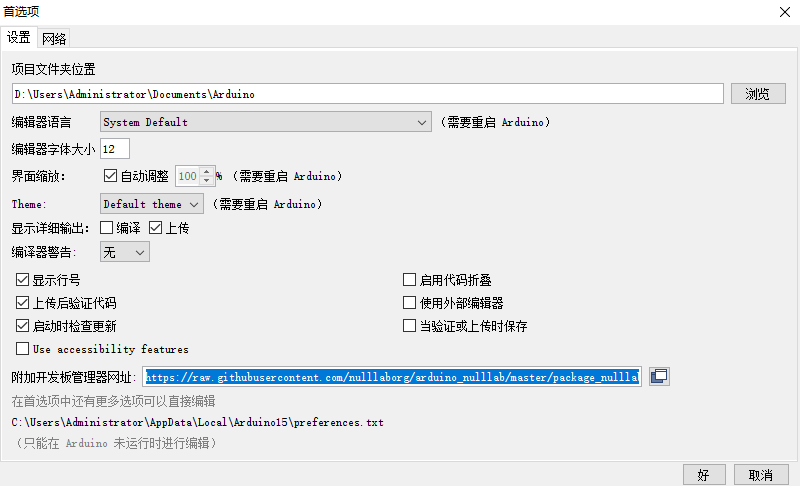
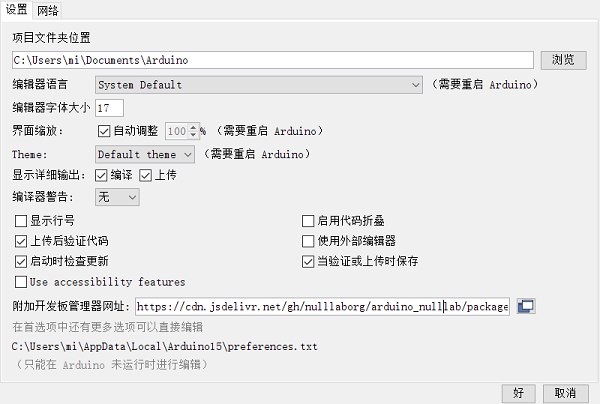
add package new link for down package

diff --git a/README.md b/README.md
@@ -1,6 +1,27 @@
 **[中文](README_zh.md)**
 # Arduino Hardware Support Package for LGT8F's 
 
+Automatic IDE integration is supported via the
+Arduino Boards Manager. This is the recommanded way of installation now. 
+
+Start the Arduino-IDE. In *File->Preferences*, *Settings* tab, enter
+
+> https://raw.githubusercontent.com/nulllaborg/arduino_nulllab/master/package_nulllab_boards_index.json
+
+as an *Additional Boards Manager URL*.
+
+- Open *Tools->Board:...->Boards Manager*
+
+- Find arduino_nulllaba by typing 'ch' into the search line
+
+* Click on the list entry
+* Click on *Install*.
+
+Now you should find a new entry *nulllab avr compatible boards* in the list at
+*Tools->Board:...*
+
+* Choose *nulllab boards* from the list
+
 ### Task status
 
 - [x] PWM & Timers update
@@ -10,7 +31,8 @@
 - [ ] Computation Accelerator
 
 ### Summary
-Larduino_HSP is a 3rd party hardware support package for the LGT8F core based arduino boards. The backend of the **HSP** is fork from offical arduino distribution. We have try to keep all the standard features compatible with arduino world. So feel free to resuse all of the libraries which designed for arduino platform.
+
+arduino_nulllab is a 3rd party hardware support package for the LGT8F core based arduino boards. The backend of the **HSP** is fork from offical arduino distribution. We have try to keep all the standard features compatible with arduino world. So feel free to resuse all of the libraries which designed for arduino platform.
 
 
 Microcontroller based on LGT8F, e.g LGT8F328P has more advanced features which not covered in standard arduino implementation. so there are also many new features merged to this 3rd party package. Important update and new features as following:
@@ -22,99 +44,15 @@ Microcontroller based on LGT8F, e.g LGT8F328P has more advanced features which n
 * *1/2 channel 8bit Digtial-to-Analog output, campatible with `analogWrite()`*
 * *More standalone I/Os*
 
-##### *Fast_IO code snippets*
-
-```C
-void setup() {
-	//set D10 to output
-	fastioMode(D10, OUTPUT);
-
-	// driver D10 to low level
-	fastioWrite(D10, LOW);
-}
-
-void loop() {
-	// toggle D10
-	fastioToggle(D10);
-}
-```
-
-##### *PWM code snippets : Solo mode*
-
-```C
-void setup() {
-	// usage: pwmMode(pin, pwm_mode, freq_mode)
-	// PWM_MODE_SOLO: set pwm of D5/D6 to independent mode
-	// PWM_FREQ_FAST: set PWM to fast mode 
-	pwmMode(D5, PWM_MODE_SOLO, PWM_FREQ_FAST);
-
-	// usage: pwmResolution(pin, res_bits)
-	// set PWM resolution to 7bit
-	pwmResolution(D5, 7);
-	// or we can set PWM frequency directly
-	// usage: pwmFrequency(pin, freq_in_hz)
-	// pwmFrequency(D5, 500000);
-
-	// usage: pwmWrite(pin, duty)
-	// Note that we have set PWM resolution to 7bit
-	pwmWrite(D5, 128 >> 1);
-	pwmWrite(D6, 128 >> 2);
-}
-```
-
-##### *PWM code snippets : Duo/Complementary mode*
-
-```C
-// dead-band settings for complementary PWM
-int deadBand = 8;
-int dutyMax;
-
-void setup() {
-	// usage: pwmMode(pin, pwm_mode, freq_mode)
-	// PWM_MODE_DUO1: set pwm of D5/D6 to DUO1 mode (complementary)
-	// PWM_FREQ_FAST: set PWM to fast mode
-	// PWM_FREQ_BOOST: boost frequency by x4
-	// deadBand: set dead-band cycle for PWM 
-	pwmMode(D5, PWM_MODE_DUO1, PWM_FREQ_FAST|PWM_FREQ_BOOST, deadBand);
-
-	// we can set PWM frequency directly
-	// usage: pwmFrequency(pin, freq_in_hz)
-	// set PWM frequency to 300KHz, return its duty resolution
-	dutyMax = pwmFrequency(D5, 300000);
-
-	// usage: pwmWrite(pin, duty)
-	// Note: maximum duty is calcuated when set pwm frequency
-	pwmWrite(D5, dutyMax >> 2);
-	pwmWrite(D6, dutyMax >> 2);
-}
-```
-
-
-> More detail will be documented in coming Wiki page
 
 ### Bootloader 
-The Larduino HSP bootloader is based on optiboot. Source can be found inside the [bootloader directory](https://github.com/LGTMCU/Larduino_HSP/tree/master/hardware/LGT/avr/bootloaders/lgt8fx8p)
+The LGT8F328P bootloader is based on optiboot. Source can be found inside the [bootloader directory](./lgt8fx8p)
 
-* *Bootloader upload baudrate: 57600bps*
-	
-### Installation:
-1. Unzip [master.zip](https://github.com/LGTMCU/Larduino_HSP/archive/master.zip)
-1. Copy the [**hardware**] directory to Arduino's sketchbook directory (see below to find out where it normally resides)
-1. Restart Arduino, you will see new board from [**Tools**]->[**Board**] menu.
+* *Bootloader upload baudrate: 115200bps*
+* *Fix CH340G download unstabitily*
 
-### About arduino's sketchbook directory
+## Thanks
 
-You can always find this directory via the **[File]->[Preferences]** dialog. But here is the default sketchbook directory for most popluar system:
+- [Larduino_HSP](https://github.com/LGTMCU/Larduino_HSP) for make code base
+- [lgt8fx](https://github.com/dbuezas/lgt8fx)  for make more functions and fix bugs
 
-| System | Path of sketchbook |
-| :----- | :----------------- |
-| Windows | C:\Users\\<Username\>\Documents\Arduino |
-| Mac OSX | /Users/user/Documents/Arduino |
-| LINUX | /home/<Username\>/sketchbook |
-
-### Arduino Board based on LGT8F's
-Here we list one remarkable arduino board based on the LGT8F, which is designed by **[OCROBOT](http://www.ocrobot.com/doku.php?id=start)**, the [ALPHA 8F382P-U](http://www.ocrobot.com/doku.php?id=ocrobot:alpha:8f328p-u:main) stick with USB to UART on-board. Very affordable, for a low cost of just **RMB 8.00**!
-
-![](http://www.ocrobot.com/lib/exe/fetch.php?w=400&tok=f15324&media=ocrobot:alpha:8f328p-u:328p-u%E4%BE%A7%E9%9D%A2435.png)
-
-Please follow **[OCROBOT ALPHA 8F832P-U](http://www.ocrobot.com/doku.php?id=ocrobot:alpha:8f328p-u:main)** official page for more details.

diff --git a/README_zh.md b/README_zh.md
@@ -34,7 +34,8 @@
 1、文件->首选项，得到如下界面
 
 2、在附加开发板管理器网址输入如下网址：
-https://gitee.com/nulllab/nulllab_arduino/raw/master/package_nulllab_boards_index.json
+> https://cdn.jsdelivr.net/gh/nulllaborg/arduino_nulllab/package_nulllab_boards_index.json
+
 ![](./doc/pic/option_zh.png)
 
 3、工具->开发板->开发板管理
@@ -98,13 +99,13 @@ LGT8FX8P系列微控制器目前主要包括LGT8F328P, LGT8FX8P系列实现LGT8X
 
 ### EEROM操作
 
-- **read_block(uint8_t *, uint16_t, uint8_t);  write_block(uint8_t *, uint16_t, uint8_t);**
+- **read_block(uint8_t *, uint16_t, uint8_t);  write_block(uint8_t *, uint16_t, uint8_t)**
     读写eerom数据到缓存
     
-- **read32(uint16_t);  write32(uint16_t, uint32_t);**
+- **read32(uint16_t);  write32(uint16_t, uint32_t)**
     读写eerom 32bit数据
     
-- **write_swm(uint16_t, uint32_t *, uint8_t);  read_swm(uint16_t, uint32_t *, uint8_t);**
+- **write_swm(uint16_t, uint32_t *, uint8_t);  read_swm(uint16_t, uint32_t *, uint8_t)**
 	连续模式读写数据到缓存
 	
 	DIY模式可以
@@ -113,6 +114,6 @@ LGT8FX8P系列微控制器目前主要包括LGT8F328P, LGT8FX8P系列实现LGT8X
 
 基于Atmega328P的Arduino Uno系类主板是可以给LGT8F328P系列烧录bootloard的，那么当然基于LGT8F328P的主板也同样可以给LGT8F32P系类芯片烧录bootloard的，他们的接线，烧录方法完全一致。
 
-你的手里LGT系类主板或者arduino主板需要先烧录[Lgt328P_ISP](libraries\Lgt328P_ISP\Lgt328P_ISP.ino)程序然后参考[下载方法](./libraries/Lgt328P_ISP/README_zh.md)
+你的手里LGT系类主板或者arduino主板需要先烧录[Lgt328P_ISP](./libraries./Lgt328P_ISP./Lgt328P_ISP.ino)程序然后参考[下载方法](./libraries/Lgt328P_ISP/README_zh.md)
 
 ![](./doc/pic/ISP.png)

diff --git a/libraries/Lgt328P_ISP/README_zh.md b/libraries/Lgt328P_ISP/README_zh.md
@@ -9,7 +9,8 @@
 ### 使用说明
 
 1、将Arduino Uno制作成ISP
-- 1.打开**[Lgt328P_ISP.ino](./libraries/Lgt328P_ISP/Lgt328P_ISP.ino)** 应用程序
+
+- 1.打开**[Lgt328P_ISP.ino](./Lgt328P_ISP.ino)** 应用程序(主板选择Nulllab Nano然后通过IDE里面 *文件->示例->Lgt328P_ISP*)
 - 2.工具->开发板->开发板管理->Arduino AVR Boards->Arduino Uno然后上传程序到Arduino Uno主板中
 - 3.按如下图接线
 
@@ -33,7 +34,7 @@
 ### 使用说明
  1、Nulllab-Nano制作成ISP：
 
-- 1.打开打开**[Lgt328P_ISP.ino](./libraries/Lgt328P_ISP/Lgt328P_ISP.ino)** 应用程序
+- 1.打开打开**[Lgt328P_ISP.ino](./Lgt328P_ISP.ino)** 应用程序 (可以通过IDE里面*文件-->示例-->Lgt328P_ISP*)
 - 2.选择开发板：工具->开发板->开发板管理->Nulllab AVR Compatible Boards->Nulllab Nano
 - 3.按如下图接线
 
